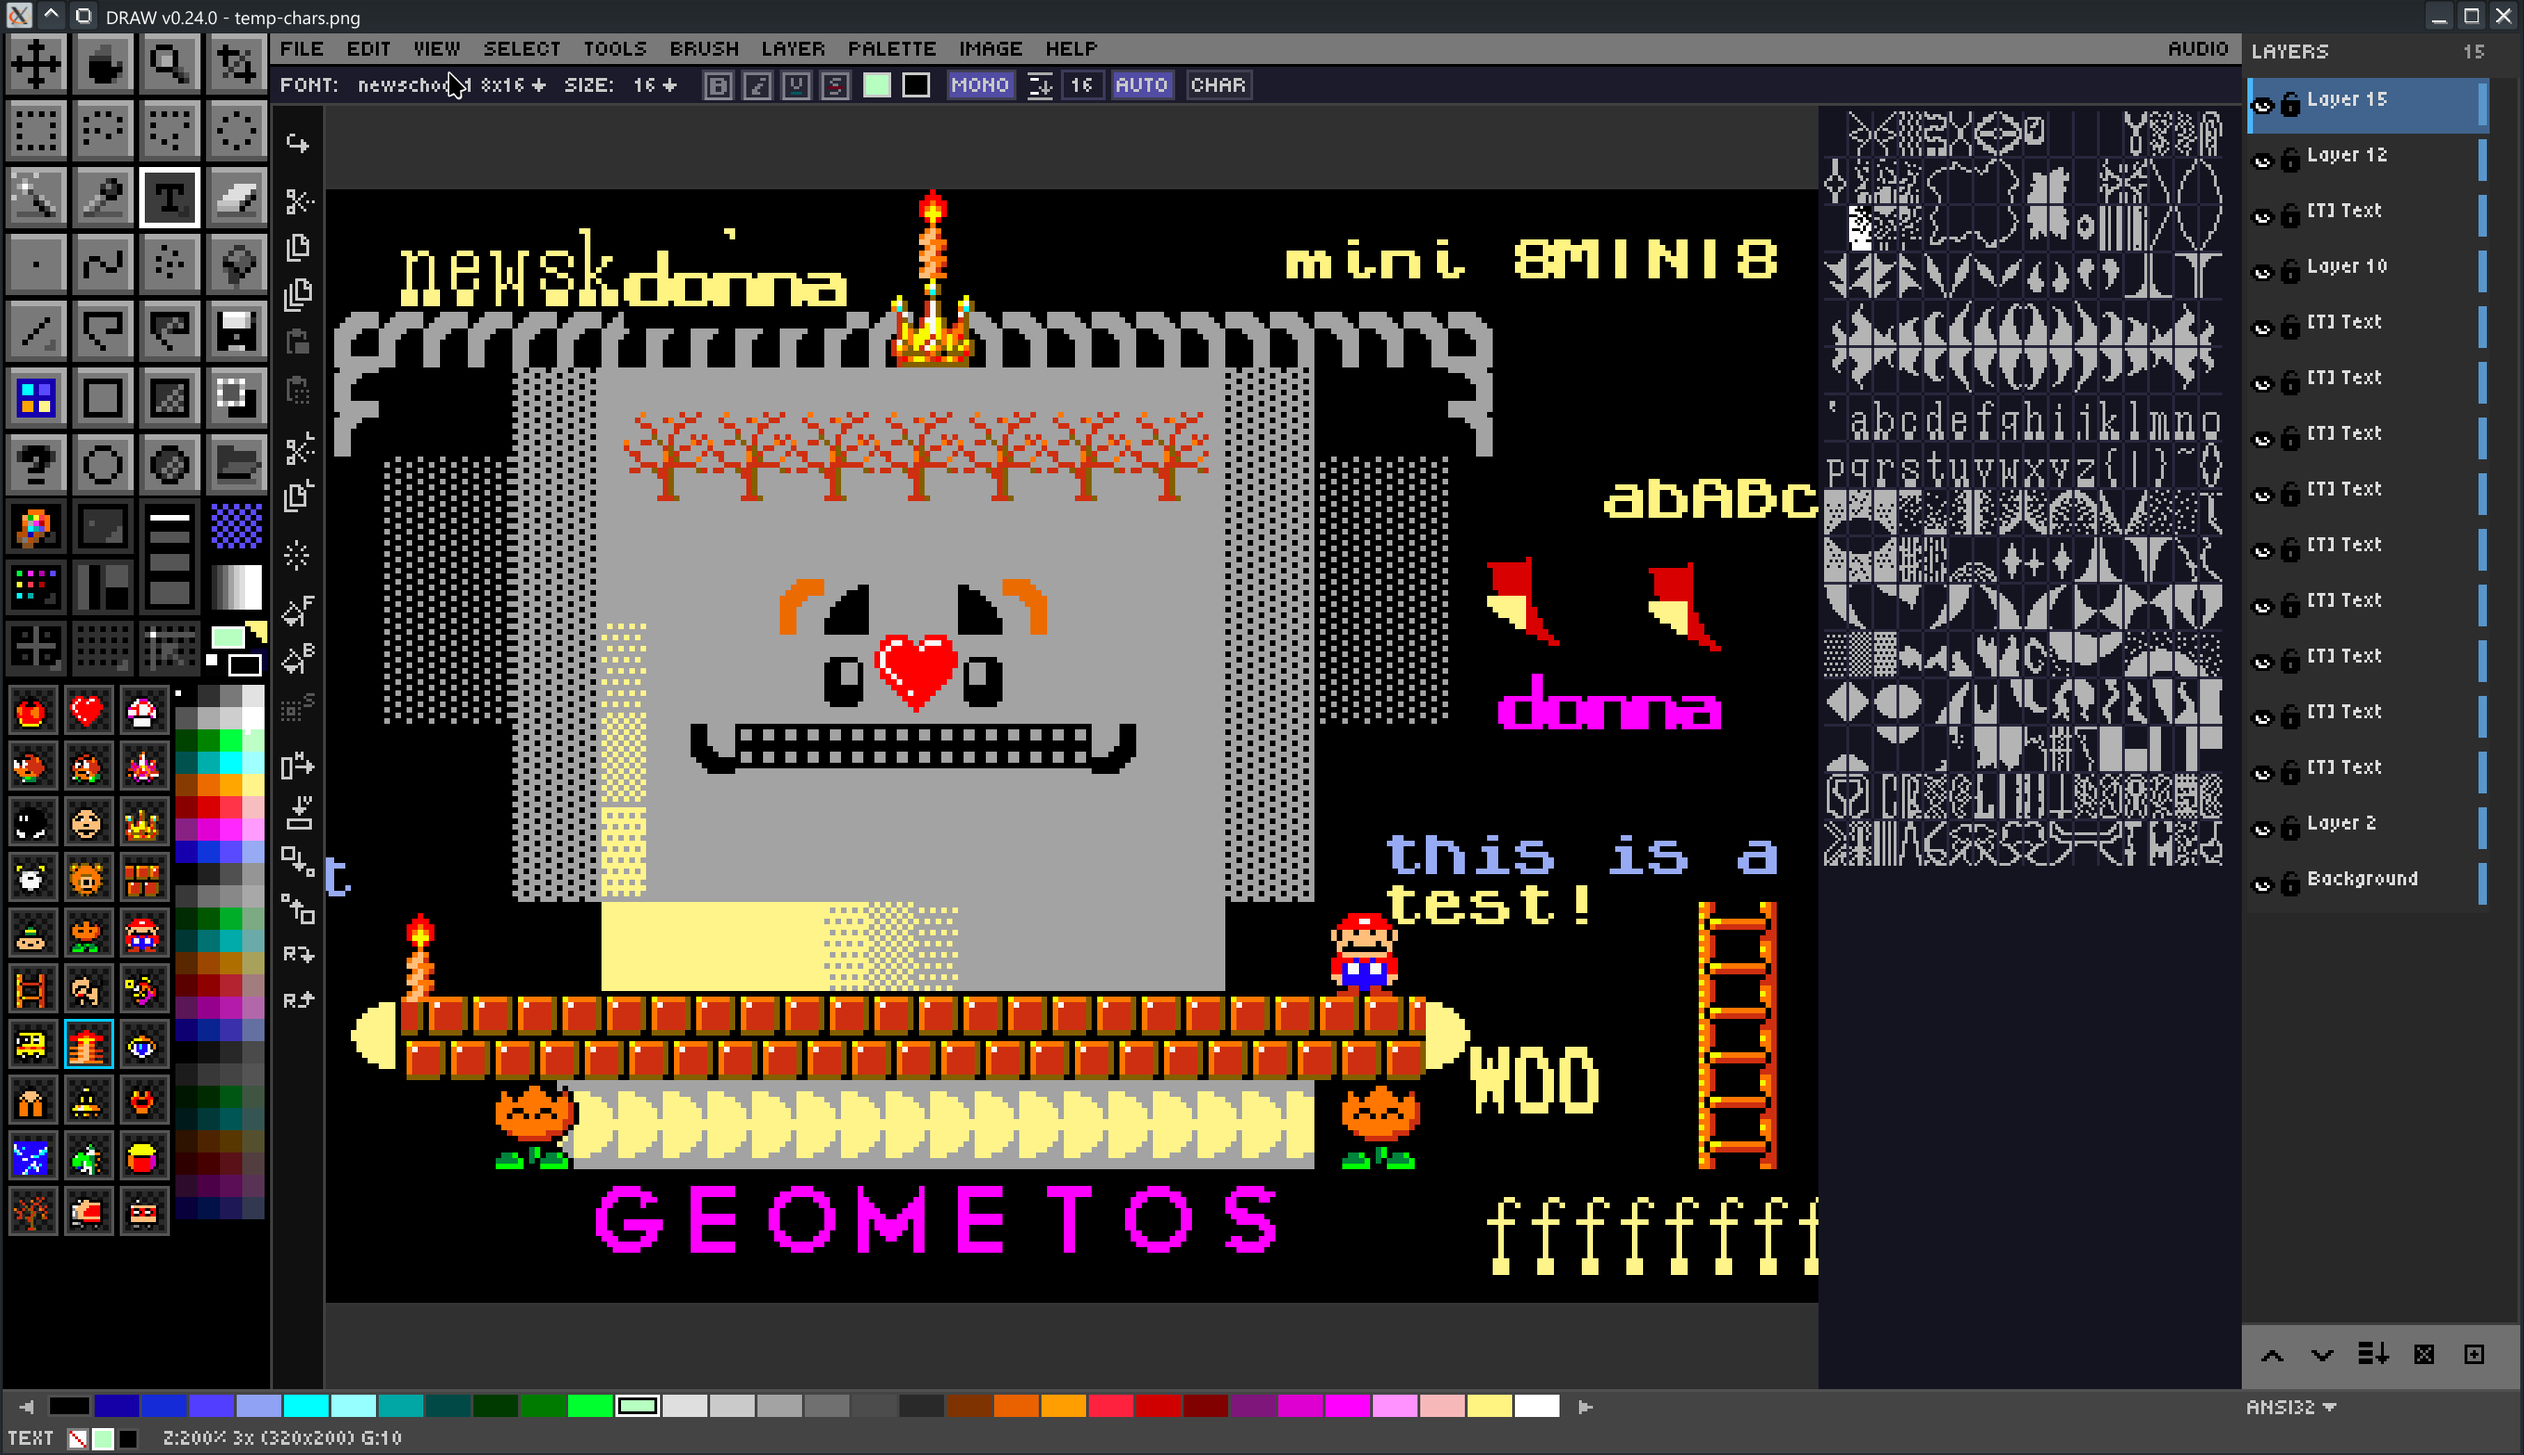
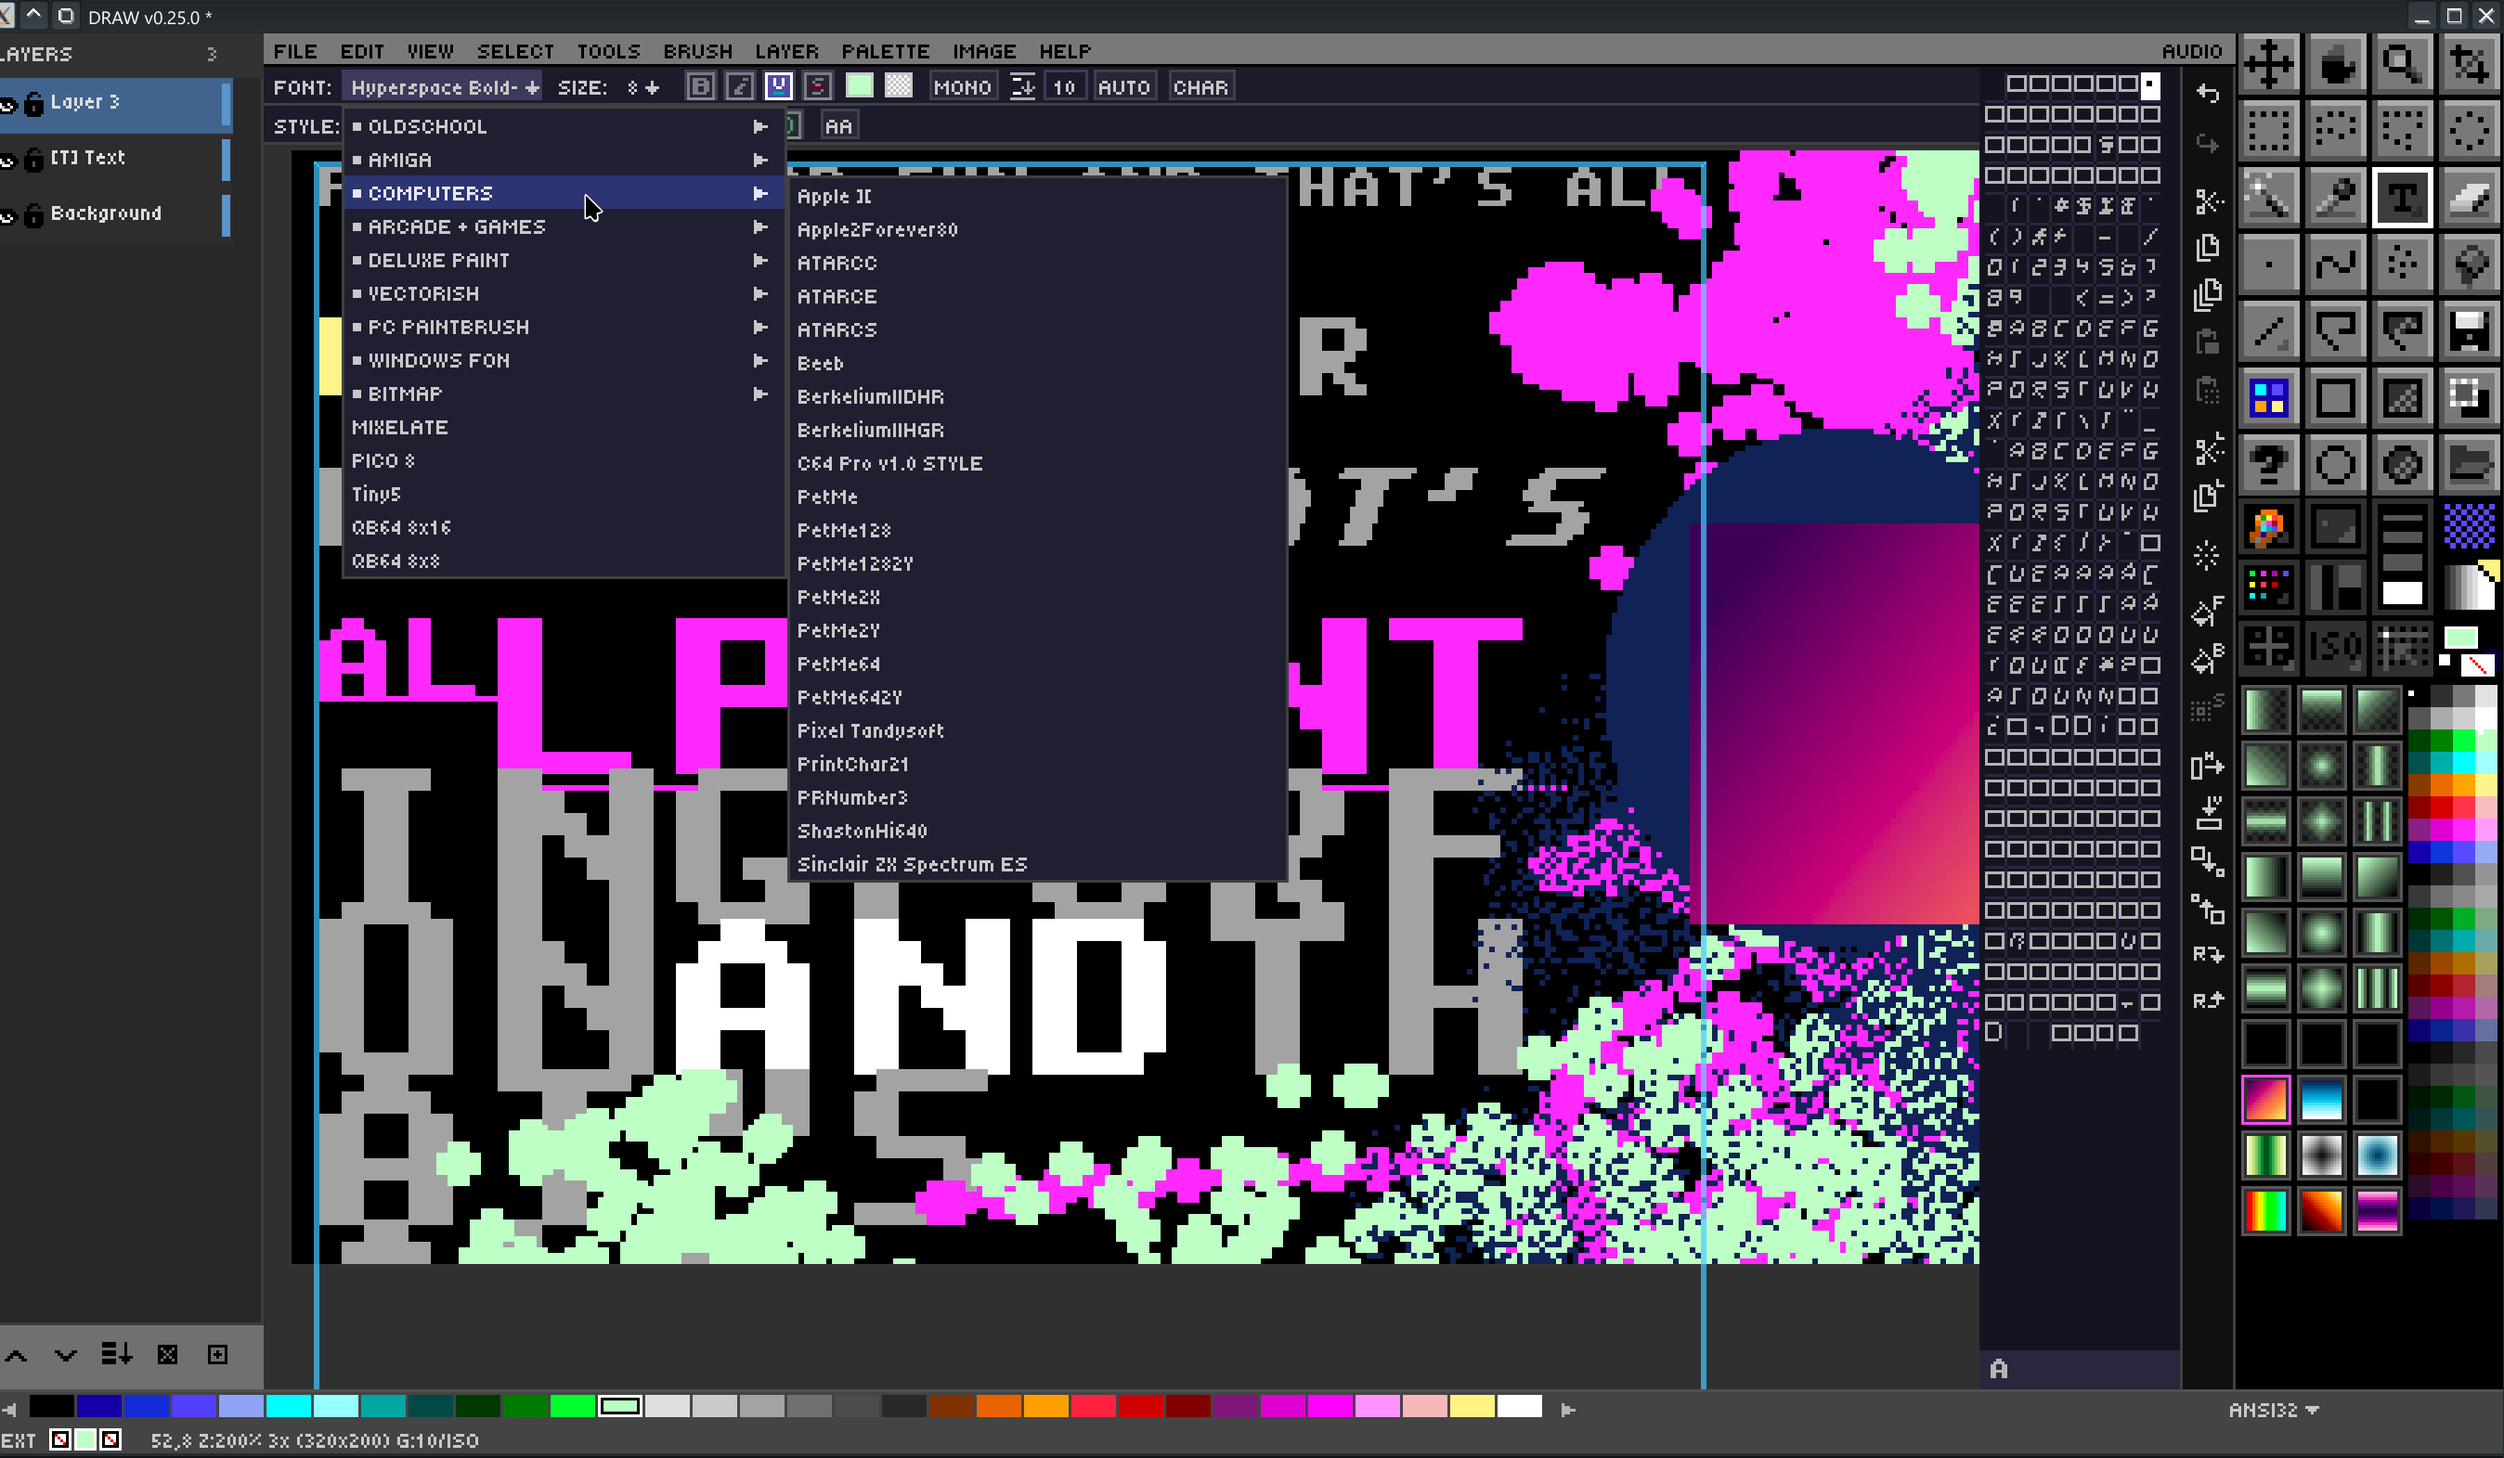
DRAW v0.26.0

diff --git a/CHEATSHEET.md b/CHEATSHEET.md
@@ -790,16 +790,56 @@ The stroke is applied to the current layer inside the selection bounds. Requires
 | **Shift+Home/End** | Select to start/end of line |
 | **Ctrl+Shift+Left/Right** | Select one word |
 | **Ctrl+A** | Select all text |
+| **Double-click** | Select word at cursor |
+| **Triple-click** | Select entire line |
+| **Quad-click** | Select all text |
+
+### Text Undo/Redo
+
+While editing a text layer, **Ctrl+Z** and **Ctrl+Y** perform text-local undo/redo that operates on the text content only (up to 128 states). These are separate from the global canvas undo history — they track character insertions, deletions, formatting changes, and selection state within the current text editing session. The text undo stack resets when you exit text editing.
+
+| Key | Function |
+|-----|----------|
+| **Ctrl+Z** | Undo last text edit (within text mode) |
+| **Ctrl+Y** | Redo last text edit (within text mode) |
 
 ### Text Bar (GUI Controls)
 
 When the text tool is active, a text property bar appears with:
-- **Font dropdown** — Choose from VGA, Tiny5, or custom loaded fonts
+- **Font dropdown** — Choose from VGA, Tiny5, bitmap, or custom loaded fonts (includes subfolder scanning)
 - **Font size dropdown** — Select character size
 - **Bold / Italic / Underline / Strikethrough** — Toggle formatting buttons (applied per-character)
+- **Outline** — Toggle text outline with configurable color and size
+- **Shadow** — Toggle drop shadow with configurable color and X/Y offset (1-10px)
 - **Line height** — Adjust vertical line spacing
 - **Letter spacing** — Adjust horizontal character spacing
 - **FG/BG color swatches** — Per-character foreground and background colors (uses current paint colors)
+- **Style presets** — Save, load, update, and delete named text style presets
+
+### Text Style Presets
+
+The text bar includes style preset management:
+
+| Control | Function |
+|---------|----------|
+| **Style dropdown** | Select a saved style preset to apply |
+| **[S] button** | Save current formatting as a new named preset |
+| **[U] button** | Update the selected preset with current formatting |
+| **[X] button** | Delete the selected preset |
+| **Default** | Reset to default formatting (in style dropdown) |
+
+Presets store: Bold, Italic, Underline, Strikethrough, Outline (on/off + color + size), Shadow (on/off + color + X/Y offset), Alignment, and Antialiasing.
+
+### Text Outline & Shadow
+
+| Control | Function |
+|---------|----------|
+| **Outline toggle** | Enable/disable text outline rendering |
+| **Outline color swatch** | Click to pick outline color |
+| **Outline size** | Click to cycle outline width in pixels |
+| **Shadow toggle** | Enable/disable drop shadow rendering |
+| **Shadow color swatch** | Click to pick shadow color |
+| **Shadow X/Y offset** | Click to cycle shadow offset (1-10px) |
 
 ### Re-editing Text Layers
 
@@ -1402,6 +1442,11 @@ DRAW stores settings in `DRAW.cfg` in the application directory. Settings are lo
 | `TRANSPARENCY_CHECK_SIZE_Y` | Checkerboard square height (0=use theme) |
 | `MAX_LAYERS` | Maximum number of layers (1-64) |
 | `LAYER_PANEL_WIDTH` | Width of layer panel in pixels |
+| `FONTS_INCLUDE_OS_INSTALLED` | Include system fonts from OS (TRUE/FALSE) |
+| `FONTS_INCLUDE_DRAW_BITMAP` | Include bitmap fonts from ASSETS/FONTS/BITMAP/ (TRUE/FALSE) |
+| `FONTS_INCLUDE_DRAW_EXTRAS` | Include extra TTF/OTF fonts from ASSETS/FONTS/ (TRUE/FALSE) |
+| `FONTS_INCLUDE_USER` | Include user TTF/OTF fonts from USER/FONTS/ (TRUE/FALSE) |
+| `FONTS_INCLUDE_USER_BITMAP` | Include user bitmap fonts from USER/FONTS/BITMAP/ (TRUE/FALSE) |
 
 ## Command Line
 

diff --git a/README.MD b/README.MD
@@ -14,7 +14,7 @@ DATA "::::::::", "::    ::", "::    ::", "::::  ::::", "  ::  ::  "
 
 DRAW is a pixel art editor written in QB64PE that can export images as sourcecode
 
-Current release: v0.25.0
+Current release: v0.26.0
 
 ![DRAW GUI from v0.25.0](./GUI.png)
 
@@ -37,7 +37,7 @@ Current release: v0.25.0
 - **Pan** - Dedicated canvas panning tool (hand)
 - **Zoom** - Click to zoom in, Alt+click to zoom out, drag to zoom region
 - **Clipboard** - Copy/Cut/Paste selections (Ctrl+C/X/V), Merged copy (Ctrl+Shift+C), Clear selection (Ctrl+E); mask-aware operations for magic wand and non-rectangular selections
-- **Text** - Text entry tool with text layers, font properties bar (VGA/Tiny5/custom TTF/OTF/bitmap), rich per-character formatting (bold/italic/underline/strikethrough), per-character FG/BG colors, cursor navigation, selection, clipboard, auto-wrap, and sound feedback; text layers persist in DRW files with full undo/redo support; click existing text layers to re-edit; **Character Mode** for ANSI/ASCII art with PabloDraw-style virtual cursor navigation, F1-F12 block character shortcuts, and font stickiness
+- **Text** - Text entry tool with text layers, font properties bar (VGA/Tiny5/custom TTF/OTF/bitmap), rich per-character formatting (bold/italic/underline/strikethrough/outline/shadow), per-character FG/BG colors, cursor navigation, selection (including double/triple/quad-click for word/line/all), clipboard, auto-wrap, and sound feedback; **text-local undo/redo** (Ctrl+Z/Y within text mode, up to 128 states); **style presets** (save/load/update/delete named text styles); text layers persist in DRW files with full undo/redo support; click existing text layers to re-edit; **Character Mode** for ANSI/ASCII art with PabloDraw-style virtual cursor navigation, F1-F12 block character shortcuts, and font stickiness
 - **Character Map** - Dockable 16×16 glyph panel (`Ctrl+M`) showing all 256 font characters with hover/select/flash states; supports bitmap font rendering (Fontaption, PSF, BDF formats); click glyphs to insert or stamp as custom brush; Alt+U picks FG/BG colors from character under cursor; character grid overlay with snap-to-grid for precise text art alignment
 - **Eraser** - Dedicated eraser tool that paints transparent; shares brush size preview and custom brush support. **Smart Erase** (hold `Shift` while erasing) erases on every visible non-opacity-locked layer simultaneously
 - **Stroke Selection** - Apply a configurable stroke (inside/outside/center, adjustable width) around the active selection boundary via Edit → Stroke Selection
